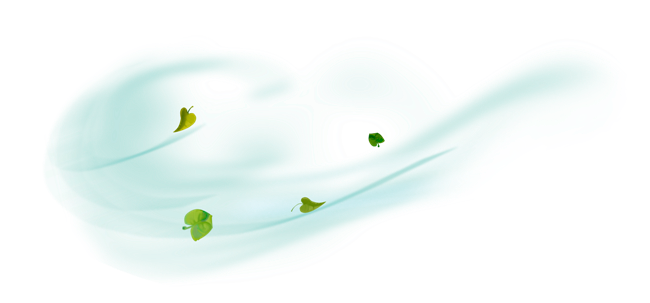
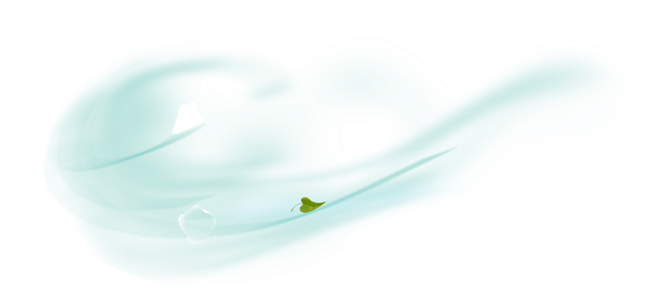
viiiter

Changed region(s): [[0.2769, 0.6832, 0.3385, 0.802], [0.5538, 0.4158, 0.6154, 0.505], [0.2462, 0.3564, 0.3077, 0.4455]]

diff --git a/css/style.css b/css/style.css
@@ -1,3 +1,78 @@
+.leavesMotino{
+	position: relative;
+}
+
+.leaves{
+	position: absolute;
+	top:60px;
+	left:21%;
+	z-index: 1
+}
+.leaves2{
+	top:293px ;
+	left:25.6%;
+}
+.leaves3{
+	top:180px;
+	left:30%;
+}
+.leaves4{
+	top:50px ;
+	left:75.6%;
+}
+.leaves5{
+	top:200px;
+	left:80%;
+}
+.leaves6{
+	top:23px ;
+	left:20%;
+}
+
+#Polygon-1 , #Polygon-2 , #Polygon-3 , #Polygon-4 , #Polygon-4, #Polygon-5, #Polygon-6 {
+  -webkit-animation: float 3s infinite ease-in-out alternate;
+          animation: float 3s infinite ease-in-out alternate;
+          position: absolute;
+}
+#Polygon-2 {
+  -webkit-animation-delay: 1.8s;
+          animation-delay: 1.8s;
+}
+#Polygon-3 {
+  -webkit-animation-delay: .4s;
+          animation-delay: .4s; 
+}
+#Polygon-4 {
+  -webkit-animation-delay: .6s;
+          animation-delay: .6s; 
+}
+
+#Polygon-5{
+  -webkit-animation-delay: .8s;
+          animation-delay: .8s; 
+        
+}
+#Polygon-6{
+  -webkit-animation-delay: 2.8s;
+          animation-delay: 2.8s; 
+        
+}
+
+@-webkit-keyframes float {
+	100% {
+    -webkit-transform: translateY(20px);
+            transform: translateY(20px);
+  }
+}
+
+@keyframes float {
+	100% {
+    -webkit-transform: translateY(20px);
+            transform: translateY(20px);
+  }
+}
+
+
 /*---------button-style---------*/
 
 .submit_form{

diff --git a/index.html b/index.html
@@ -162,6 +162,26 @@
 			<div class="container old-window_container">
 				<h2 class="title">Каждому владельцу старых окон знакомы эты проблемы</h2>
 				<img class="old-window_img" src="pic/old-window.png" alt="">
+				<div class="leavesMotino">
+					<figure id='Polygon-1' class='leaves leaves1'>
+						<img src="pic/old-window/leaves1.png" alt="leaves-to-old-window" />
+					</figure>
+					<figure id='Polygon-2' class='leaves leaves2'>
+						<img src="pic/old-window/leaves2.png" alt="leaves-to-old-window" />
+					</figure>
+					<figure id='Polygon-3' class='leaves leaves3'>
+						<img src="pic/old-window/leaves3.png" alt="leaves-to-old-window" />
+					</figure>
+					<figure id='Polygon-4' class='leaves leaves4'>
+						<img src="pic/old-window/leaves4.png" alt="leaves-to-old-window" />
+					</figure>
+					<figure id='Polygon-5' class='leaves leaves5'>
+						<img src="pic/old-window/leaves5.png" alt="leaves-to-old-window" />
+					</figure>
+					<figure id='Polygon-6' class='leaves leaves6'>
+						<img src="pic/old-window/leaves6.png" alt="leaves-to-old-window" />
+					</figure>
+				</div>
 				<div class="old-window__content clearfix">
 					<ul class="list old-window_list__left">
 						<li class="list-item old-window_item__left">

diff --git a/css/style_lyuda.css b/css/style_lyuda.css
@@ -303,8 +303,8 @@ background: radial-gradient(ellipse at center, rgba(255,255,255,.9) 0%, rgba(255
 /* old-window-section styles */
 #old-window {
 	background:
-	url(../pic/veter.png) center center no-repeat,
-	url(../pic/veter_rotate.png) center center no-repeat,
+	url(../pic/old-window/veter.png) center center no-repeat,
+	url(../pic/old-window/veter_rotate.png) center center no-repeat,
 	url(../pic/dots.png),
 	url(../img/old-window_wrap.jpg) center center no-repeat;
 }
@@ -316,6 +316,8 @@ background: radial-gradient(ellipse at center, rgba(255,255,255,.9) 0%, rgba(255
 	width: 95%;
 	max-width: 800px;
 	margin: 5% auto 0;
+	position: relative;
+	z-index: 2;
 }
 
 .old-window_img {
